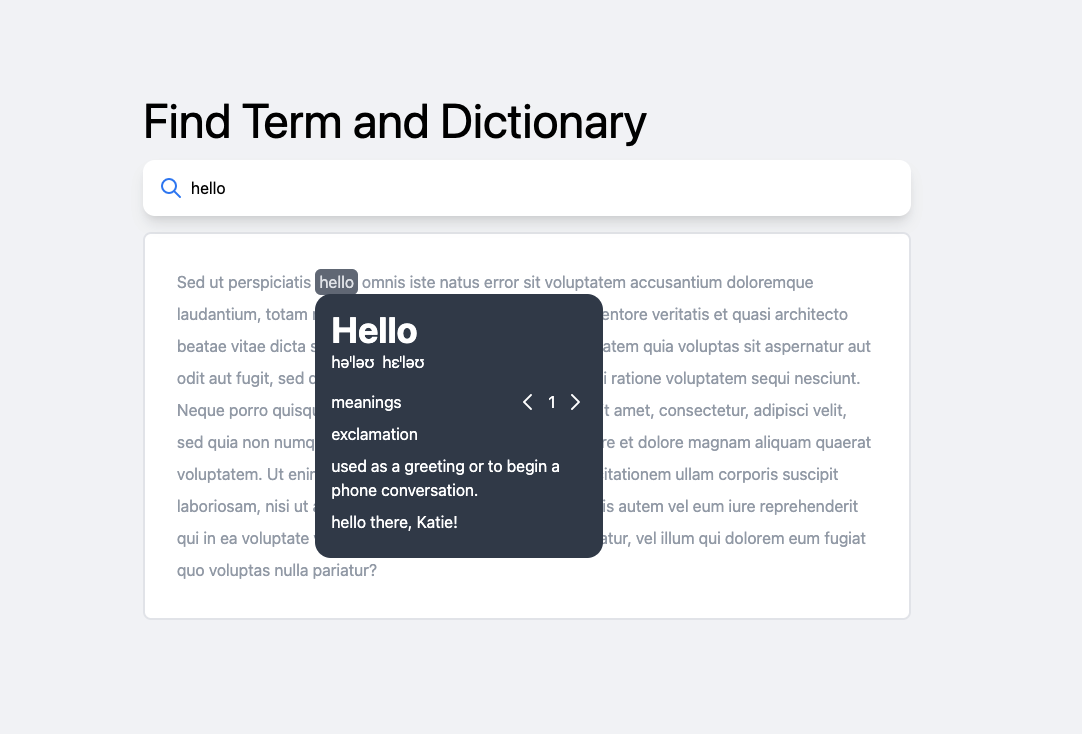
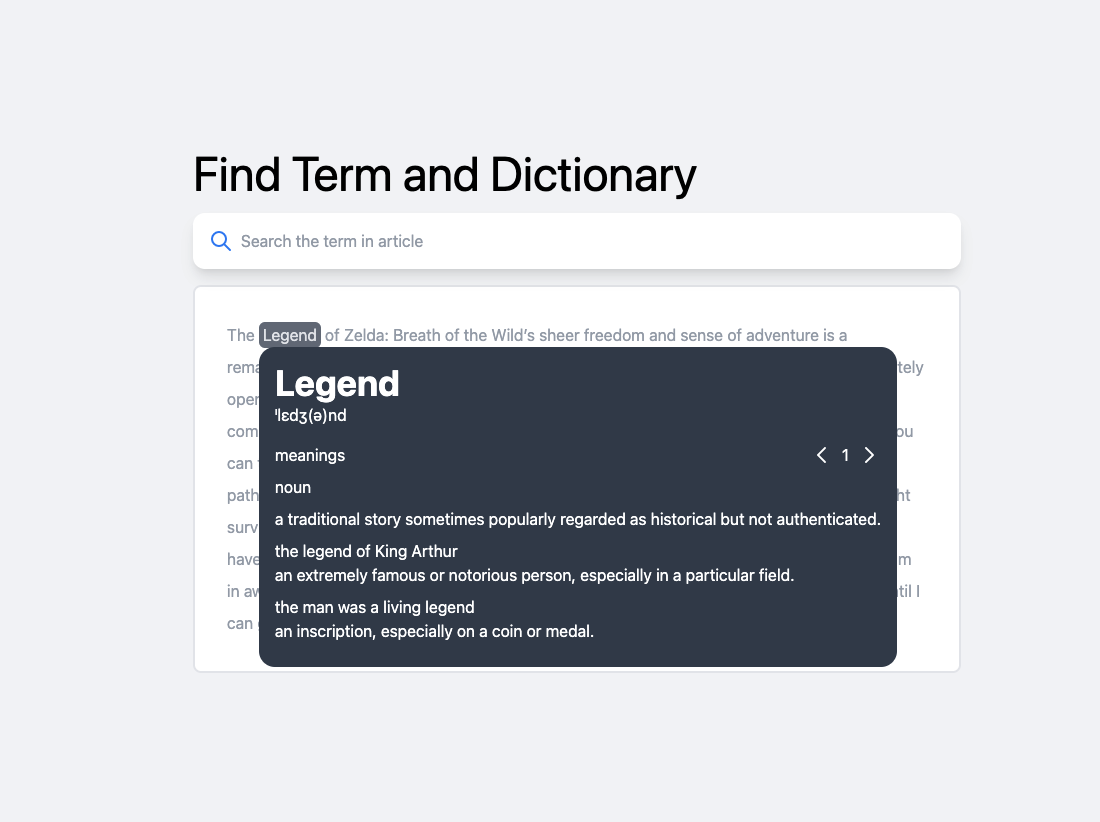
[feat] highlight every words

Changed region(s): [[0.122, 0.1199, 0.854, 0.8392]]

diff --git a/src/App.tsx b/src/App.tsx
@@ -3,7 +3,7 @@ import { useDebouncedCallback } from 'use-debounce';
 import getDicts, { IDictionaryData } from './dictionary';
 import Translate from './Translate';
 
-const words = `Sed ut perspiciatis hello omnis iste natus error sit voluptatem accusantium doloremque laudantium, totam rem aperiam, eaque ipsa quae ab illo inventore veritatis et quasi architecto beatae vitae dicta sunt explicabo. Nemo enim ipsam voluptatem quia voluptas sit aspernatur aut odit aut fugit, sed quia consequuntur magni dolores eos qui ratione voluptatem sequi nesciunt. Neque porro quisquam est, qui dolorem ipsum quia dolor sit amet, consectetur, adipisci velit, sed quia non numquam eius modi tempora incidunt ut labore et dolore magnam aliquam quaerat voluptatem. Ut enim ad minima veniam, quis nostrum exercitationem ullam corporis suscipit laboriosam, nisi ut aliquid ex ea commodi consequatur? Quis autem vel eum iure reprehenderit qui in ea voluptate velit esse quam nihil molestiae consequatur, vel illum qui dolorem eum fugiat quo voluptas nulla pariatur?`;
+const words = `The Legend of Zelda: Breath of the Wild’s sheer freedom and sense of adventure is a remarkable achievement. Right from the start, the vast landscape of Hyrule is thrown completely open to you, and it constantly finds ways to pique your curiosity with mysterious landmarks, complex hidden puzzles, and enemy camps to raid for treasure and weapons. The fact that you can tackle any one of these things at your own pace and almost never get pulled to the main path is liberating, but the way all of Breath of the Wild’s systems fit elegantly into complex light survival game is even more impressive. I’ve been running around for over 50 hours and I still have plenty of mysteries left to track down and lots of wonderfully crafted puzzles to solve. I’m in awe of the scope and scale of this adventure, and I often find myself counting the hours until I can get back in.`;
 
 const highlightWords = (search: string, words: string[], ref: React.RefObject<HTMLDivElement>) => {
     let hasSearched = false;
@@ -28,14 +28,16 @@ const highlightWords = (search: string, words: string[], ref: React.RefObject<HT
 
 function App() {
     const ref = useRef<HTMLDivElement>(null);
-    const [search, setSearch] = useState('hello');
+    const [search, setSearch] = useState('legend');
     const [leftTop, setLeftTop] = useState({ left: 0, top: 0 });
-    const [[hasSearched,highlightedWords], setHighlightedWords] = useState(highlightWords(search, words.split(' '), ref));
+    const [[hasSearched, highlightedWords], setHighlightedWords] = useState(
+        highlightWords(search, words.split(' '), ref)
+    );
     const [dicts, setDicts] = useState<IDictionaryData[]>([]);
 
     const handleInputChanged = useDebouncedCallback((e: React.FocusEvent<HTMLInputElement>) => {
         setSearch(e.target.value ?? '');
-    }, 200)
+    }, 200);
 
     useEffect(() => {
         const highlighted = highlightWords(search, words.split(' '), ref);
